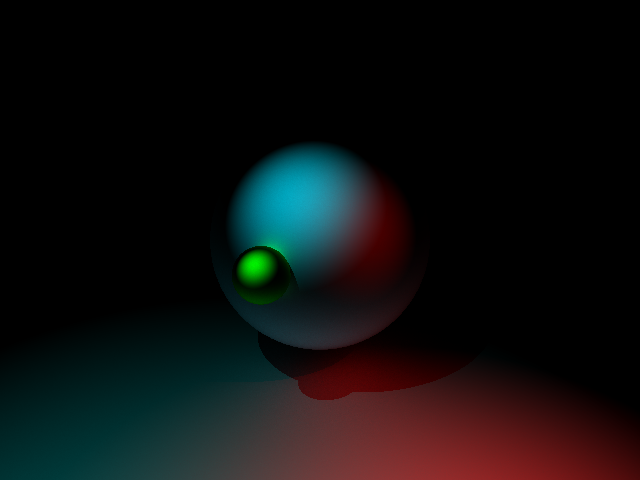
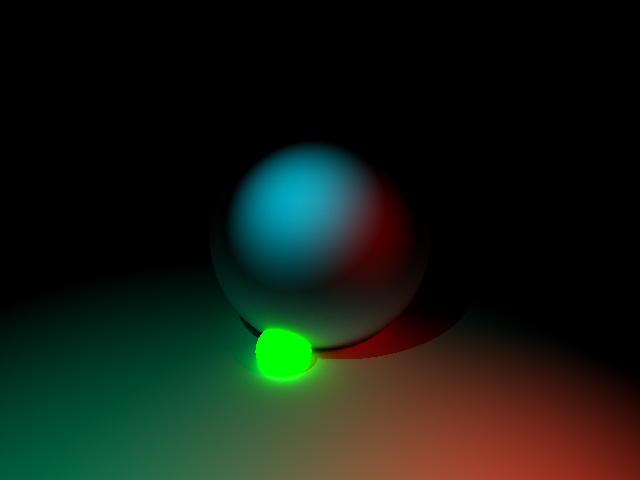
引入Diffuse发光材质

diff --git a/03_ol_renderer/src/material/combine.rs b/03_ol_renderer/src/material/combine.rs
@@ -5,6 +5,14 @@ extern crate rand;
 use material::*;
 use math::*;
 
+fn single_vec_to_option(v: Vec<Vec3f>) -> Option<Vec3f> {
+    if v.is_empty() {
+        None
+    } else {
+        Some(v[0])
+    }
+}
+
 pub struct MulBxDF {
     a: Box<BxDF>,
     b: Box<BxDF>,
@@ -22,12 +30,20 @@ impl BxDF for MulBxDF {
         max_elememt_wise_color3(self.a.ambient(), self.b.ambient())
     }
 
+    fn emit(&self, v: Vec3f) -> Color3f {
+        self.a.emit(v) + self.b.emit(v)
+    }
+
     fn f(&self, vin: Vec3f, vout: Vec3f) -> Color3f {
         self.a.f(vin, vout).mul_element_wise(self.b.f(vin, vout))
     }
 
     fn sample(&self, v: &Vec3f, n: u32) -> Vec<Vec3f> {
-        (0..n).map(|_| self.sample_once(v)).collect()
+        (0..n)
+            .map(|_| self.sample_once(v))
+            .filter(|s| s.is_some())
+            .map(|s| s.unwrap())
+            .collect()
     }
 
     fn pdf(&self, v: &Vec3f, vsample: &Vec3f) -> Real {
@@ -37,7 +53,11 @@ impl BxDF for MulBxDF {
     }
 
     fn sample_upper(&self, v: &Vec3f, n: u32) -> Vec<Vec3f> {
-        (0..n).map(|_| self.sample_once_upper(v)).collect()
+        (0..n)
+            .map(|_| self.sample_once_upper(v))
+            .filter(|s| s.is_some())
+            .map(|s| s.unwrap())
+            .collect()
     }
 
     fn pdf_upper(&self, v: &Vec3f, vsample: &Vec3f) -> Real {
@@ -48,23 +68,118 @@ impl BxDF for MulBxDF {
 }
 
 impl MulBxDF {
-    fn sample_once(&self, v: &Vec3f) -> Vec3f {
+    fn sample_once(&self, v: &Vec3f) -> Option<Vec3f> {
         let df = if rand::random::<Real>() < self.afac {
             &self.a
         } else {
             &self.b
         };
         match self.t {
-            BxDFType::BRDF => df.sample_upper(v, 1)[0].clone(),
-            BxDFType::BSDF => df.sample(v, 1)[0].clone(),
+            BxDFType::BRDF => single_vec_to_option(df.sample_upper(v, 1)),
+            BxDFType::BSDF => single_vec_to_option(df.sample(v, 1)),
         }
     }
 
-    fn sample_once_upper(&self, v: &Vec3f) -> Vec3f {
+    fn sample_once_upper(&self, v: &Vec3f) -> Option<Vec3f> {
         if rand::random::<Real>() < self.afac {
-            self.a.sample_upper(v, 1)[0].clone()
+            single_vec_to_option(self.a.sample_upper(v, 1))
         } else {
-            self.b.sample_upper(v, 1)[0].clone()
+            single_vec_to_option(self.b.sample_upper(v, 1))
+        }
+    }
+
+    fn mul_type(type_a: BxDFType, type_b: BxDFType) -> BxDFType {
+        if type_a == BxDFType::BSDF && type_b == BxDFType::BSDF {
+            BxDFType::BSDF
+        } else {
+            BxDFType::BRDF
+        }
+    }
+
+    pub fn new(a: Box<BxDF>, b: Box<BxDF>) -> MulBxDF {
+        let t = Self::mul_type(a.get_type(), b.get_type());
+        MulBxDF {
+            a,
+            b,
+            t,
+            afac: 0.5,
+            bfac: 0.5,
+        }
+    }
+}
+
+pub struct AddBxDF {
+    a: Box<BxDF>,
+    b: Box<BxDF>,
+    t: BxDFType,
+    afac: Real,
+    bfac: Real,
+}
+
+impl BxDF for AddBxDF {
+    fn get_type(&self) -> BxDFType {
+        self.t.clone()
+    }
+
+    fn ambient(&self) -> Color3f {
+        self.a.ambient() + self.b.ambient()
+    }
+
+    fn emit(&self, v: Vec3f) -> Color3f {
+        self.a.emit(v) + self.b.emit(v)
+    }
+
+    fn f(&self, vin: Vec3f, vout: Vec3f) -> Color3f {
+        self.a.f(vin, vout) + self.b.f(vin, vout)
+    }
+
+    fn sample(&self, v: &Vec3f, n: u32) -> Vec<Vec3f> {
+        (0..n)
+            .map(|_| self.sample_once(v))
+            .filter(|s| s.is_some())
+            .map(|s| s.unwrap())
+            .collect()
+    }
+
+    fn pdf(&self, v: &Vec3f, vsample: &Vec3f) -> Real {
+        let apdf = self.afac * self.a.pdf(v, vsample);
+        let bpdf = self.bfac * self.b.pdf(v, vsample);
+        apdf + bpdf
+    }
+
+    fn sample_upper(&self, v: &Vec3f, n: u32) -> Vec<Vec3f> {
+        (0..n)
+            .map(|_| self.sample_once_upper(v))
+            .filter(|s| s.is_some())
+            .map(|s| s.unwrap())
+            .collect()
+    }
+
+    fn pdf_upper(&self, v: &Vec3f, vsample: &Vec3f) -> Real {
+        let apdf = self.afac * self.a.pdf_upper(v, vsample);
+        let bpdf = self.bfac * self.b.pdf_upper(v, vsample);
+        apdf + bpdf
+    }
+}
+
+impl AddBxDF {
+    fn sample_once(&self, v: &Vec3f) -> Option<Vec3f> {
+        let df = if rand::random::<Real>() < self.afac {
+            &self.a
+        } else {
+            &self.b
+        };
+        match self.t {
+            BxDFType::BRDF => single_vec_to_option(df.sample_upper(v, 1)),
+            BxDFType::BSDF => single_vec_to_option(df.sample(v, 1)),
+        }
+    }
+
+    fn sample_once_upper(&self, v: &Vec3f) -> Option<Vec3f> {
+        if rand::random::<Real>() < self.afac {
+            single_vec_to_option(self.a.sample_upper(v, 1))
+        } else {
+            single_vec_to_option(self.b.sample_upper(v, 1))
         }
     }
 

diff --git a/03_ol_renderer/examples/path_tracing.rs b/03_ol_renderer/examples/path_tracing.rs
@@ -8,7 +8,7 @@ const IMG_W: u32 = 640;
 const IMG_H: u32 = 480;
 const CAM_W: Real = 0.4;
 const CAM_H: Real = CAM_W * (IMG_H as Real) / (IMG_W as Real);
-const ITER_CNT: u32 = 8192;
+const ITER_CNT: u32 = 10000;
 
 fn main() {
     use rayon::prelude::*;
@@ -31,32 +31,31 @@ fn main() {
             }),
         )),
         Box::new(sphere::Sphere::new(
-            vec3(0.4, 0.1, 0.2),
+            vec3(0.32, -0.27, 0.13),
             0.1,
-            Box::new(|_, loc_x, loc_y, _, _| {
-                Box::new(Phong::new(BLACK, color3(0.0, 1.0, 0.0), loc_x, loc_y, 1.0))
-            }),
+            Box::new(|_, _, loc_y, _, _| Box::new(DiffuseLight::new(loc_y, color3(0.0, 1.4, 0.0)))),
         )),
         Box::new(sphere::Sphere::new(
             vec3(0.0, -5.0, 0.0),
-            4.5,
+            4.7,
             Box::new(|_, loc_x, loc_y, _, _| {
-                Box::new(Phong::new(BLACK, color3(1.0, 0.4, 0.4), loc_x, loc_y, 1.0))
+                Box::new(Phong::new(BLACK, color3(1.0, 0.6, 0.4), loc_x, loc_y, 1.0))
             }),
         )),
     ];
 
     let lights: Vec<Box<Light>> = vec![
         Box::new(PointLight::new(vec3(4.0, 10.0, 4.0), color3(0.0, 1.0, 1.0))),
-        Box::new(PointLight::new(
-            vec3(1.0, 1.0, -1.0),
-            color3(0.8, 0.0, 0.0),
-        )),
+        Box::new(PointLight::new(vec3(1.0, 1.0, -1.0), color3(0.8, 0.0, 0.0))),
     ];
 
     let renderer = PathTracer::new(entities, lights, BLACK, 3, 1);
 
     let img = image::ImageBuffer::from_fn(IMG_W, IMG_H, |x, y| {
+        if x == IMG_W - 1 {
+            println!("Finished: {}%", y as Real / (IMG_H - 1) as Real * 100.0);
+        }
+
         let x = 2.0 * x as Real / (IMG_W - 1) as Real - 1.0;
         let y = -2.0 * y as Real / (IMG_H - 1) as Real + 1.0;
         let ray = camera.scr_to_ray(vec2(x, y));

diff --git a/03_ol_renderer/src/renderer/path_tracing.rs b/03_ol_renderer/src/renderer/path_tracing.rs
@@ -58,6 +58,7 @@ impl PathTracer {
                 let pos = i.position + i.normal * 1e-4;
                 self.direct_illu(pos, -r.d, i.normal, &i.material)
                     + self.indirect_illu(pos, -r.d, i.normal, &i.material, depth)
+                    + i.material.emit(-r.d)
             }
         }
     }
@@ -80,7 +81,8 @@ impl PathTracer {
         let sam = &sam[0];
 
         let color = material.f(dir_in, -sam.ray.d).mul_element_wise(sam.color)
-            * dot(-sam.ray.d, normal).max(0.0) * dot(sam.ray.d, sam.light_normal).max(0.0);
+            * dot(-sam.ray.d, normal).max(0.0)
+            * dot(sam.ray.d, sam.light_normal).max(0.0);
         color * self.lights.len() as Real / light.pdf_to(sam.ray.clone(), pnt)
     }
 
@@ -91,6 +93,9 @@ impl PathTracer {
         normal: Vec3f,
         material: &Box<BxDF>,
     ) -> Color3f {
+        if self.lights.is_empty() {
+            return BLACK;
+        }
         let mut rng = rand::thread_rng();
         (0..self.spp).fold(BLACK, |acc, _| {
             acc + self.light_sample_once(pnt, dir_in, normal, material, &mut rng)

diff --git a/03_ol_renderer/src/material/diffuse_light.rs b/03_ol_renderer/src/material/diffuse_light.rs
@@ -1,0 +1,53 @@
+//! Diffuse light source
+
+use material::*;
+use math::*;
+
+pub struct DiffuseLight {
+    normal: Vec3f,
+    color: Color3f,
+}
+
+impl BxDF for DiffuseLight {
+    fn get_type(&self) -> BxDFType {
+        BxDFType::BRDF
+    }
+
+    fn ambient(&self) -> Color3f {
+        BLACK
+    }
+
+    fn emit(&self, v: Vec3f) -> Color3f {
+        if dot(self.normal, v) <= 0.0 {
+            BLACK
+        } else {
+            self.color
+        }
+    }
+
+    fn f(&self, _: Vec3f, _: Vec3f) -> Color3f {
+        BLACK
+    }
+
+    fn sample(&self, _: &Vec3f, _: u32) -> Vec<Vec3f> {
+        vec![]
+    }
+
+    fn pdf(&self, _: &Vec3f, _: &Vec3f) -> Real {
+        0.0
+    }
+
+    fn sample_upper(&self, _: &Vec3f, _: u32) -> Vec<Vec3f> {
+        vec![]
+    }
+
+    fn pdf_upper(&self, _: &Vec3f, _: &Vec3f) -> Real {
+        0.0
+    }
+}
+
+impl DiffuseLight {
+    pub fn new(normal: Vec3f, color: Color3f) -> DiffuseLight {
+        DiffuseLight { normal, color }
+    }
+}

diff --git a/03_ol_renderer/src/material/mod.rs b/03_ol_renderer/src/material/mod.rs
@@ -1,10 +1,12 @@
 //! Programming interfaces for object materials
 
 pub mod combine;
+pub mod diffuse_light;
 pub mod phong;
 
 pub mod prelude {
     pub use super::combine::*;
+    pub use super::diffuse_light::*;
     pub use super::phong::*;
     use math::*;
 
@@ -22,6 +24,9 @@ pub mod prelude {
 
         /// Ambient illumination
         fn ambient(&self) -> Color3f;
+
+        /// Radiance emitted to given direction
+        fn emit(&self, v: Vec3f) -> Color3f;
 
         /// Compute the BxDF coefficient.
         fn f(&self, vin: Vec3f, vout: Vec3f) -> Color3f;

diff --git a/03_ol_renderer/src/material/phong.rs b/03_ol_renderer/src/material/phong.rs
@@ -26,6 +26,10 @@ impl BxDF for Phong {
         self.ambient
     }
 
+    fn emit(&self, _v: Vec3f) -> Color3f {
+        BLACK
+    }
+
     fn f(&self, vin: Vec3f, vout: Vec3f) -> Color3f {
         if dot(vin, self.local_y) <= 0.0 || dot(vout, self.local_y) <= 0.0 {
             return BLACK;

diff --git a/03_ol_renderer/src/entity/sphere.rs b/03_ol_renderer/src/entity/sphere.rs
@@ -34,7 +34,7 @@ where
             None
         }
     }
-    
+
     fn has_inct(&self, r: Ray) -> Option<(Real, Vec3f)> {
         self.sph.nearest_inct(r)
     }
